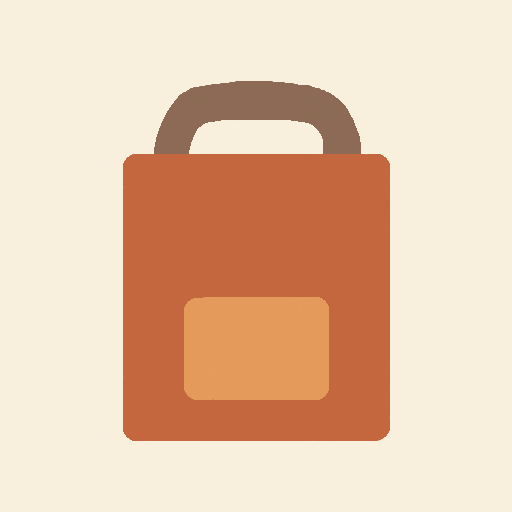
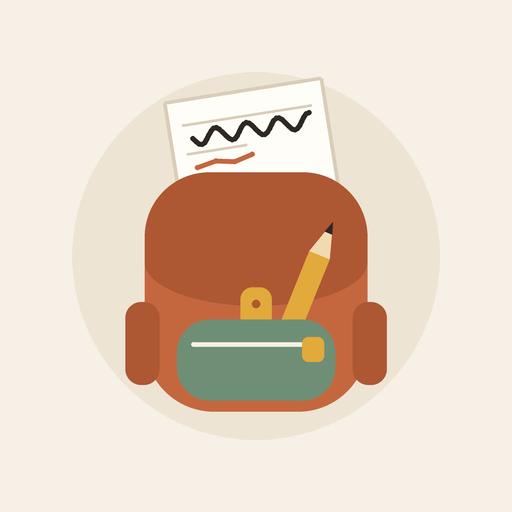
Add files via upload

Changed region(s): [[0.2188, 0.125, 0.7812, 0.875]]

diff --git a/sw.js b/sw.js
@@ -1,4 +1,4 @@
-const C='noteri-v2',A=['./','index.html','manifest.webmanifest','icon-192.png','icon-512.png'];
+const C='noteri-v3',A=['./','index.html','manifest.webmanifest','icon-192.png','icon-512.png'];
 self.addEventListener('install',e=>e.waitUntil(caches.open(C).then(c=>c.addAll(A)).then(()=>self.skipWaiting())));
 self.addEventListener('activate',e=>e.waitUntil(caches.keys().then(k=>Promise.all(k.filter(x=>x!==C).map(x=>caches.delete(x)))).then(()=>clients.claim())));
 self.addEventListener('fetch',e=>{if(e.request.method!=='GET')return;e.respondWith(caches.open(C).then(async c=>{const r=await c.match(e.request);const f=fetch(e.request).then(n=>{if(n.ok||n.type==='opaque')c.put(e.request,n.clone());return n}).catch(()=>r||c.match('index.html'));return r||f}))});
